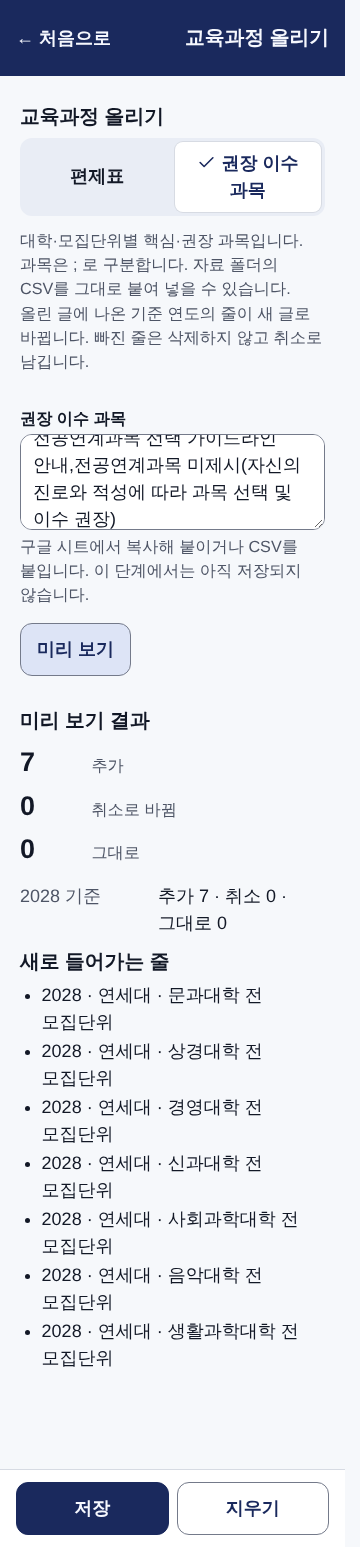
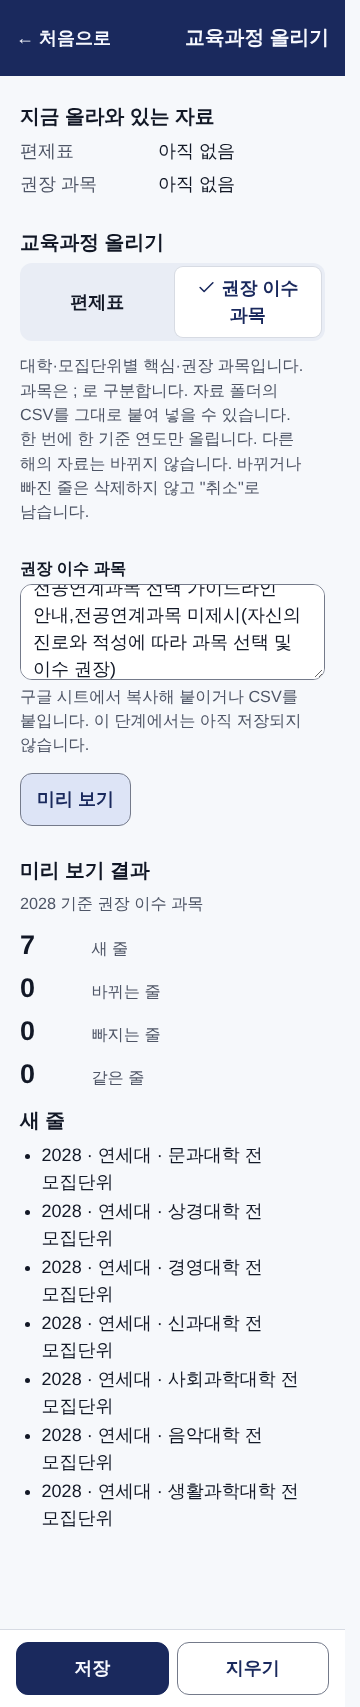
S6-1: 시안 11절·총괄 확정에 맞춤 — 한 번에 한 해, 새 줄·바뀌는 줄·빠지는 줄·같은 줄, 올라와 있는 자료 카드
같은 자리(편제표 학년·학기·선택군·과목 / 권장 대학·모집단위)인데 내용이 바뀐 줄은 옛 줄 취소 + 새 줄.
권장 과목은 같은 자리 중복 시 뒤의 줄만, 출처 주소 필수. getCurriculumSummary(관리자만) 추가.

Claude-Session: https://claude.ai/code/session_01By8YabMg6JhtJe4Vt8FkLC

diff --git a/src/ui/screen_curriculum.html b/src/ui/screen_curriculum.html
@@ -12,17 +12,28 @@
       recommendations: { label: '권장 이수 과목', cols: 'base_year, university, unit, core_courses, recommended_courses, source_url, source_title, note', hint: '대학·모집단위별 핵심·권장 과목입니다. 과목은 ; 로 구분합니다. 자료 폴더의 CSV를 그대로 붙여 넣을 수 있습니다.' }
     };
     var state = { kind: 'curriculum', preview: null, snapshot: '', busy: false };
+    var summary = el('div', { class: 'card' });
     var head = el('div', { class: 'card' });
     var inputCard = el('div', { class: 'card' });
     var resultBox = el('div');
-    root.appendChild(head); root.appendChild(inputCard); root.appendChild(resultBox);
+    root.appendChild(summary); root.appendChild(head); root.appendChild(inputCard); root.appendChild(resultBox);
     var textarea, textField, checkBtn;
     var bar = UI.actionBar([
       { text: '저장', kind: 'primary', enter: true, disabled: true, onclick: onSave },
       { text: '지우기', kind: 'secondary', onclick: function () { if (textarea) { textarea.value = ''; } setPreview(null); } }
     ], { mount: true });
     var saveBtn = bar.querySelectorAll('button')[0];
-    build();
+    build(); loadSummary();
+
+    function loadSummary() {
+      call('getCurriculumSummary').then(function (d) {
+        clear(summary);
+        summary.appendChild(el('h2', { text: '지금 올라와 있는 자료' }));
+        var rows = [['편제표', d.curriculum.length ? d.curriculum.map(function (y) { return y.year + '학년 입학 ' + y.rows + '줄'; }).join(' · ') : '아직 없음'],
+          ['권장 과목', d.recommendations.length ? d.recommendations.map(function (y) { return y.year + ' 기준 ' + y.rows + '줄'; }).join(' · ') : '아직 없음']];
+        summary.appendChild(kv(rows));
+      }).catch(function (err) { clear(summary); showError(summary, err); });
+    }
 
     function key() { return state.kind + '|' + textarea.value; }
     function hintNote() { return el('div', { class: 'notice info', text: '저장하려면 먼저 [미리 보기]를 눌러 결과를 봐 주세요. 저장 버튼은 미리 본 뒤에 켜집니다.' }); }
@@ -36,7 +47,7 @@
         onchange: function (v) { state.kind = v; state.preview = null; state.snapshot = ''; saveBtn.disabled = true; build(); }
       }));
       head.appendChild(el('div', { class: 'muted', text: KINDS[state.kind].hint }));
-      head.appendChild(el('div', { class: 'muted', text: '올린 글에 나온 ' + (state.kind === 'curriculum' ? '입학년도' : '기준 연도') + '의 줄이 새 글로 바뀝니다. 빠진 줄은 삭제하지 않고 취소로 남깁니다.' }));
+      head.appendChild(el('div', { class: 'muted', text: '한 번에 한 ' + (state.kind === 'curriculum' ? '입학년도' : '기준 연도') + '만 올립니다. 다른 해의 자료는 바뀌지 않습니다. 바뀌거나 빠진 줄은 삭제하지 않고 "취소"로 남습니다.' }));
       clear(inputCard);
       textarea = el('textarea', { class: 'cur-text', placeholder: '첫 줄(열 이름)부터 함께 붙여넣으세요.\n열 이름: ' + KINDS[state.kind].cols });
       textarea.addEventListener('input', onInputChanged);
@@ -93,14 +104,17 @@
         var card = el('div', { class: 'card' }, [el('h2', { text: '미리 보기 결과' })]);
         resultBox.appendChild(card);
         if (p.nothingToDo) card.appendChild(el('div', { class: 'notice ok', text: '변경 없음 — 이미 같은 내용이 저장되어 있습니다.' }));
-        card.appendChild(el('div', { class: 'stats', style: 'margin-bottom:12px' }, [statBox(k.add, '추가'), statBox(k.remove, '취소로 바뀜'), statBox(k.same, '그대로')]));
-        card.appendChild(kv(p.years.map(function (y) { return [y.year + (p.kind === 'curriculum' ? '학년 입학' : ' 기준'), '추가 ' + y.add + ' · 취소 ' + y.remove + ' · 그대로 ' + y.same]; })));
-        if (p.lists.add.length) { card.appendChild(el('h2', { style: 'margin-top:12px', text: '새로 들어가는 줄' })); card.appendChild(lines(p.lists.add, k.add)); }
-        if (p.lists.remove.length) {
-          card.appendChild(el('h2', { style: 'margin-top:12px', text: '새 글에 없어 취소로 바뀌는 줄' }));
-          card.appendChild(el('div', { class: 'muted', text: '삭제하지 않고 상태만 "취소"로 바꿉니다.' }));
-          card.appendChild(lines(p.lists.remove, k.remove));
-        }
+        card.appendChild(el('div', { class: 'muted', text: p.year + (p.kind === 'curriculum' ? '학년도 입학 편제표' : ' 기준 권장 이수 과목') }));
+        card.appendChild(el('div', { class: 'stats', style: 'margin:8px 0 12px' }, [statBox(k.add, '새 줄'), statBox(k.changed, '바뀌는 줄'), statBox(k.remove, '빠지는 줄'), statBox(k.same, '같은 줄')]));
+        var sect = function (title, note, list, total) {
+          if (!list.length) return;
+          card.appendChild(el('h2', { style: 'margin-top:12px', text: title }));
+          if (note) card.appendChild(el('div', { class: 'muted', text: note }));
+          card.appendChild(lines(list, total));
+        };
+        sect('새 줄', '', p.lists.add, k.add);
+        sect('바뀌는 줄', '옛 줄은 "취소"로 남고 새 줄이 생깁니다.', p.lists.changed, k.changed);
+        sect('새 글에 없는 줄', '삭제하지 않고 "취소"로 바꿉니다.', p.lists.remove, k.remove);
       }
       if (p.warnings && p.warnings.length) {
         var w = el('div', { class: 'card' }, [el('h2', { text: '알아 두세요 (' + p.warnings.length + ')' })]);
@@ -112,13 +126,13 @@
     function onSave() {
       var p = state.preview;
       if (!p || !isFresh()) { onInputChanged(); UI.toast('입력이 바뀌었습니다. [미리 보기]를 다시 눌러 주세요.', { kind: 'warn' }); return; }
-      UI.confirmSheet({ title: '저장할까요?', message: KINDS[state.kind].label + ' ' + p.counts.add + '줄을 추가하고 ' + p.counts.remove + '줄을 취소로 바꿉니다.', confirmText: '저장', onconfirm: function () {
+      UI.confirmSheet({ title: '저장할까요?', message: p.year + (state.kind === 'curriculum' ? '학년도 입학 편제표' : ' 기준 권장 이수 과목') + ': 새 줄 ' + p.counts.add + '줄, 바뀌는 줄 ' + p.counts.changed + '줄, 빠지는 줄 ' + p.counts.remove + '줄, 같은 줄 ' + p.counts.same + '줄. 바뀌거나 빠지는 줄의 옛 내용은 "취소"로 남습니다. 잘못 올렸으면 고친 표를 다시 올리면 됩니다.', confirmText: '저장', onconfirm: function () {
         state.busy = true; saveBtn.disabled = true;
         call('saveCurriculum', state.kind, textarea.value, { kind: state.kind, counts: p.counts }).then(function (r) {
           state.busy = false;
           if (!r.ok) { setPreview(null); drawResult(r); UI.toast(r.stale ? '그사이 입력이나 저장된 내용이 바뀌었습니다. [미리 보기]를 다시 눌러 주세요.' : '저장하지 못했습니다. 아래 고칠 곳을 확인해 주세요.', { kind: 'warn', ms: 6000 }); return; }
-          UI.toast(r.nothingToDo ? '변경 없음' : '저장했습니다.', { kind: 'ok' });
-          textarea.value = ''; setPreview(null);
+          UI.toast(r.nothingToDo ? '변경 없음' : '저장했습니다. 새 줄 ' + r.counts.add + '줄, 바뀐 줄 ' + r.counts.changed + '줄.', { kind: 'ok' });
+          textarea.value = ''; setPreview(null); loadSummary();
           resultBox.appendChild(el('div', { class: 'notice ok', text: '저장했습니다.' }));
         }).catch(function (err) { state.busy = false; clear(resultBox); showError(resultBox, err); });
       } });
